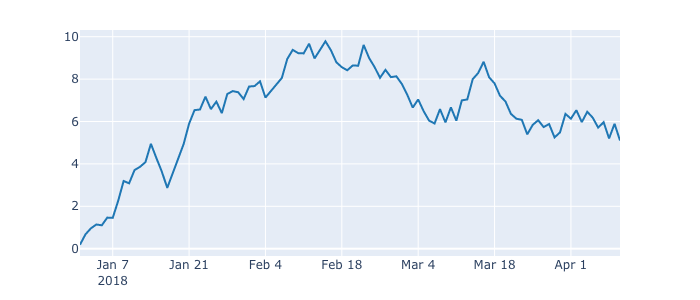
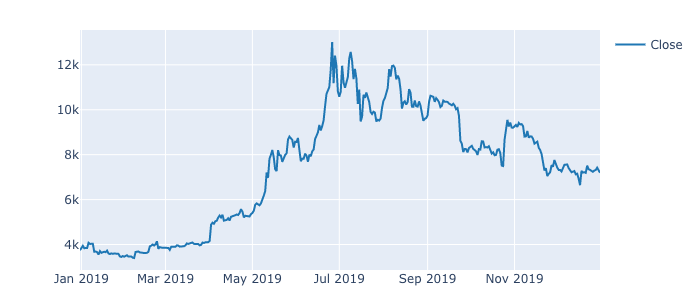
Update MA documentation

diff --git a/vectorbt/indicators.py b/vectorbt/indicators.py
@@ -3,21 +3,21 @@ Technical indicators are used to see past trends and anticipate future moves. Th
 of such indicators, but also a comprehensive `vectorbt.indicators.IndicatorFactory` for building new indicators
 with ease.
 
-Before running examples, import the following libraries:
+Before running the examples, import the following libraries:
 ```py
 import numpy as np
 import pandas as pd
 from datetime import datetime, timedelta
 import itertools
 from numba import njit
+import yfinance as yf
 
 import vectorbt as vbt
 
-np.random.seed(0)
-price = pd.Series(np.cumsum(np.random.uniform(-0.8, 1, size=(100,))), 
-    index=[datetime(2018, 1, 1) + timedelta(days=i) for i in range(100)])
+ticker = yf.Ticker("BTC-USD")
+price = ticker.history(start=datetime(2019, 1, 1), end=datetime(2020, 1, 1))['Close']
 
-price.vbt.plot()
+price.vbt.timeseries.plot()
 ```
 ![](img/Indicators_price.png)
 """
@@ -903,17 +903,18 @@ class MA(MA):
             >>> ma = vbt.MA.from_params(price, [10, 20], ewm=[False, True])
 
             >>> print(ma.ma)
-            ma_window         10        20
-            ma_ewm         False      True 
-            2018-01-01       NaN       NaN
-            2018-01-02       NaN       NaN
-            2018-01-03       NaN       NaN
-            ...              ...       ...
-            2018-04-08  5.999866  6.141290
-            2018-04-09  6.040747  6.117779
-            2018-04-10  5.915199  6.021119
+            ma_window         10           20
+            ma_ewm         False         True
+            Date                             
+            2018-12-31       NaN          NaN
+            2019-01-01       NaN          NaN
+            2019-01-02       NaN          NaN
+            ...              ...          ...
+            2019-12-29  7314.459  7313.283227
+            2019-12-30  7321.877  7311.351491
+            2019-12-31  7322.121  7300.137063
 
-            [100 rows x 2 columns]
+            [366 rows x 2 columns]
             ```
         """
         return super().from_params(ts, window, ewm, **kwargs)
@@ -936,31 +937,32 @@ class MA(MA):
             ...     [10, 20, 30], 2, ewm=[False, False, True], names=['fast', 'slow'])
 
             >>> print(fast_ma.ma)
-
-            fast_window        10        10        20
-            fast_ewm        False     False     False
-            2018-01-01        NaN       NaN       NaN
-            2018-01-02        NaN       NaN       NaN
-            2018-01-03        NaN       NaN       NaN
-            ...               ...       ...       ...
-            2018-04-08   5.999866  5.999866  5.983928
-            2018-04-09   6.040747  6.040747  5.931313
-            2018-04-10   5.915199  5.915199  5.868436
-
-            [100 rows x 3 columns]
+            fast_window        10        10         20
+            fast_ewm        False     False      False
+            Date                                      
+            2018-12-31        NaN       NaN        NaN
+            2019-01-01        NaN       NaN        NaN
+            2019-01-02        NaN       NaN        NaN
+            ...               ...       ...        ...
+            2019-12-29   7314.459  7314.459  7224.1280
+            2019-12-30   7321.877  7321.877  7224.8720
+            2019-12-31   7322.121  7322.121  7223.6805
+            
+            [366 rows x 3 columns]
 
             >>> print(slow_ma.ma)
-            slow_window        20        30        30
-            slow_ewm        False      True      True 
-            2018-01-01        NaN       NaN       NaN
-            2018-01-02        NaN       NaN       NaN
-            2018-01-03        NaN       NaN       NaN
-            ...               ...       ...       ...
-            2018-04-08   5.983928  6.356696  6.356696
-            2018-04-09   5.931313  6.326833  6.326833
-            2018-04-10   5.868436  6.247768  6.247768
+            slow_window         20           30           30
+            slow_ewm         False         True         True
+            Date                                            
+            2018-12-31         NaN          NaN          NaN
+            2019-01-01         NaN          NaN          NaN
+            2019-01-02         NaN          NaN          NaN
+            ...                ...          ...          ...
+            2019-12-29   7224.1280  7393.653412  7393.653412
+            2019-12-30   7224.8720  7387.159643  7387.159643
+            2019-12-31   7223.6805  7374.671925  7374.671925
 
-            [100 rows x 3 columns]
+            [366 rows x 3 columns]
             ```
 
             The naive way without caching is the follows:
@@ -974,33 +976,39 @@ class MA(MA):
             slow_ma = vbt.MA.from_params(price, slow_windows, slow_ewms, name='slow')
             ```
 
-            Having this, you can then compare those `vectorbt.indicators.MA` instances together:
+            Having this, you can now compare these `vectorbt.indicators.MA` instances:
             ```python-repl
             >>> entry_signals = fast_ma.ma_above(slow_ma, crossover=True)
             >>> exit_signals = fast_ma.ma_below(slow_ma, crossover=True)
 
-            >>> print(fast_signals)
+            >>> print(entry_signals)
             fast_window     10     10     20
             fast_ewm     False  False  False
             slow_window     20     30     30
-            slow_ewm     False  True   True 
-            2018-01-01   False  False  False
-            2018-01-02   False  False  False
-            2018-01-03   False  False  False
+            slow_ewm     False   True   True
+            Date                            
+            2018-12-31   False  False  False
+            2019-01-01   False  False  False
+            2019-01-02   False  False  False
             ...            ...    ...    ...
-            2018-04-08   False  False  False
-            2018-04-09   False  False  False
-            2018-04-10   False  False  False
+            2019-12-29   False  False  False
+            2019-12-30   False  False  False
+            2019-12-31   False  False  False
 
-            [100 rows x 3 columns]
+            [366 rows x 3 columns]
             ```
 
-            Notice the new column hierarchy the `MA.ma_above` method created for you. You can use
+            Notice how `MA.ma_above` method created a new column hierarchy for you. You can now use
             it for indexing as follows:
 
             ```py
-            fig = entry_signals[(10, False, 20, False)].vbt.signals.plot(name='Entries')
-            exit_signals[(10, False, 20, False)].vbt.signals.plot(name='Exits', fig=fig)
+            fig = price.vbt.timeseries.plot(name='Price')
+            fig = entry_signals[(10, False, 20, False)]\
+                .vbt.signals.plot_markers(price, signal_type='entry', fig=fig)
+            fig = exit_signals[(10, False, 20, False)]\
+                .vbt.signals.plot_markers(price, signal_type='exit', fig=fig)
+
+            fig.show()
             ```
             ![](img/MA_from_combinations.png)
         """

diff --git a/README.md b/README.md
@@ -155,7 +155,7 @@ The [previous versions](https://github.com/polakowo/vectorbt/tree/9f270820dd3e5d
     - From signals, orders, or custom order function
     - A range of performance time series, metrics, and plotting functions
 - Provides a range of technical indicators with full Numba support ([indicators.py](vectorbt/indicators.py))
-    - Moving average and STD, Bollinger Bands, RSI, Stochastic Oscillator, Moving Average Convergence Divergence, and On-balance volume
+    - Moving average and STD, Bollinger Bands, RSI, Stochastic Oscillator, MACD, and OBV
     - Indicator factory for construction of complex technical indicators in a simplified way
     - Each indicator offers methods for generating signals and plotting
     - Each indicator accepts arbitrary parameter combinations, such as single values, arrays, or product
